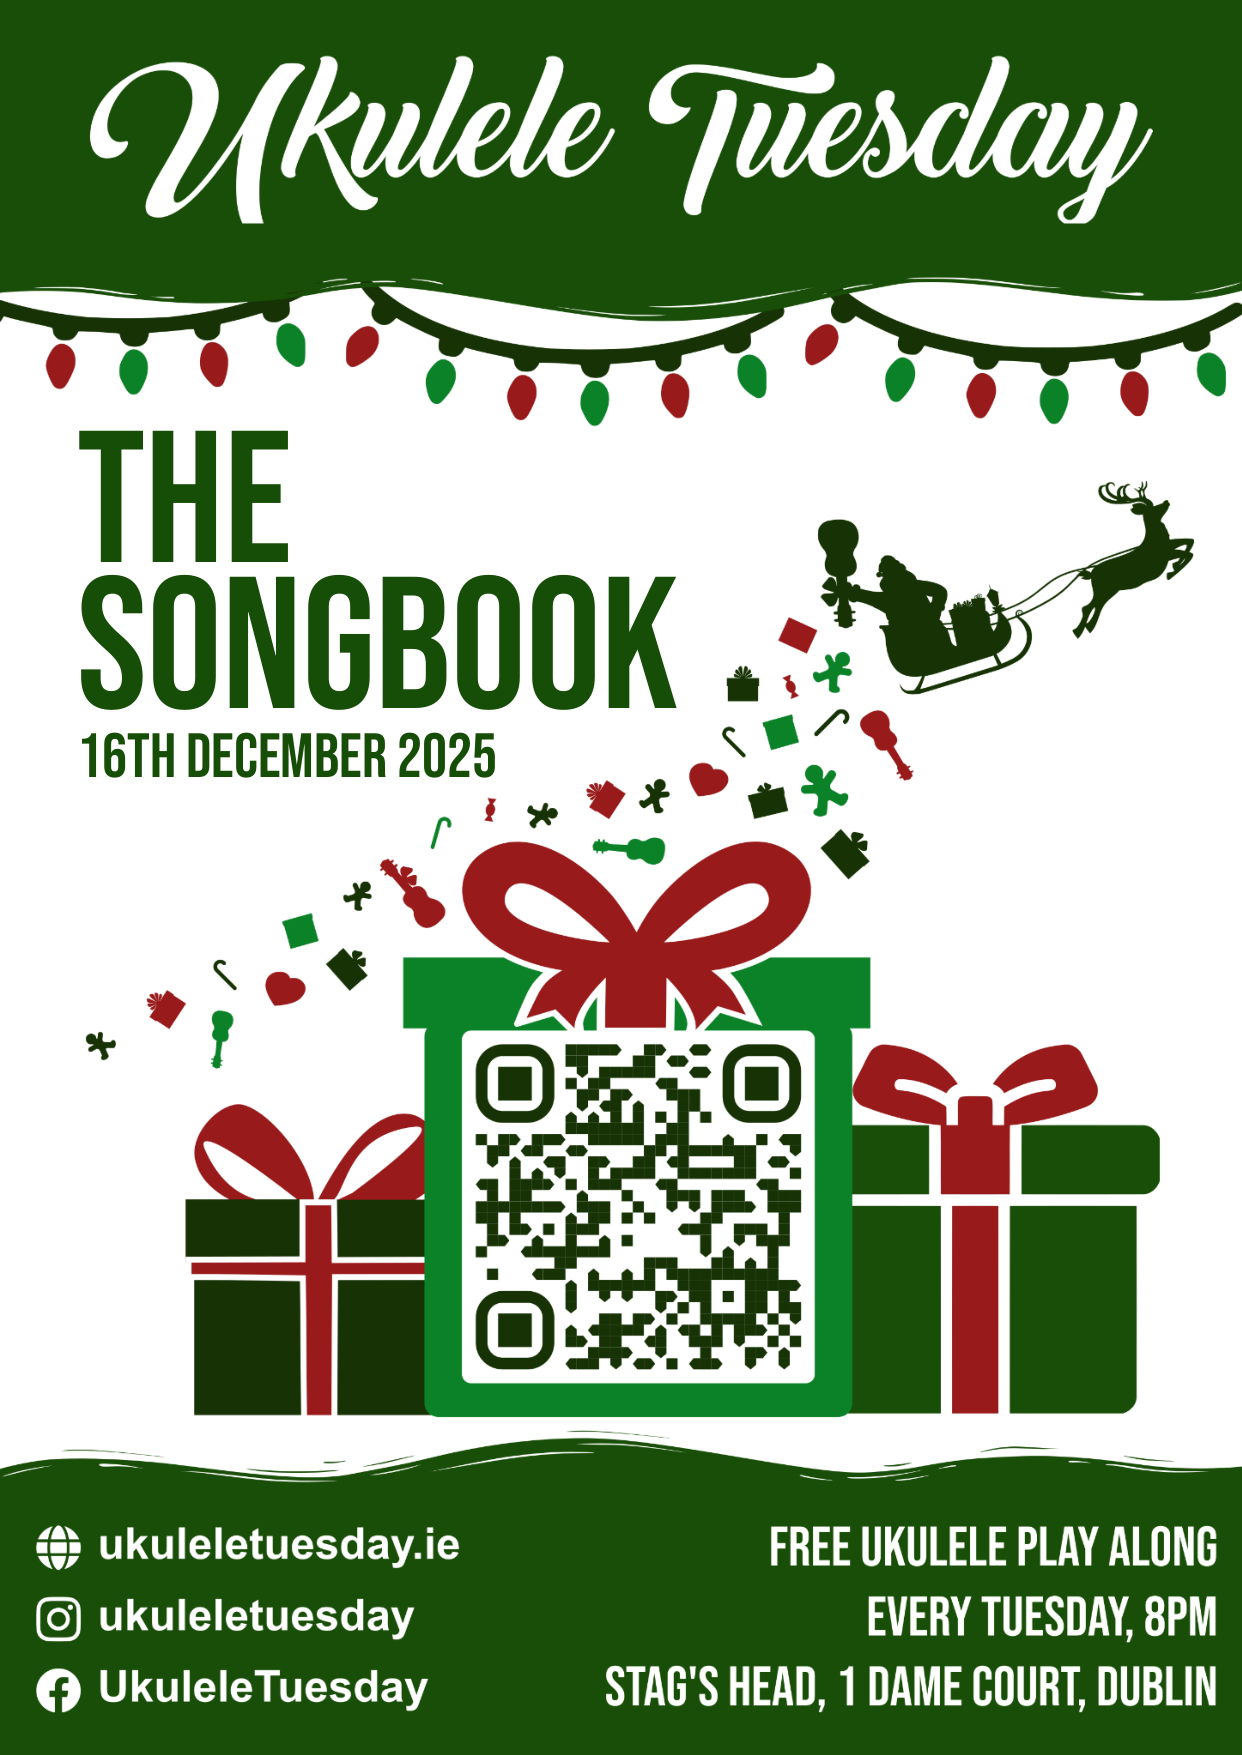
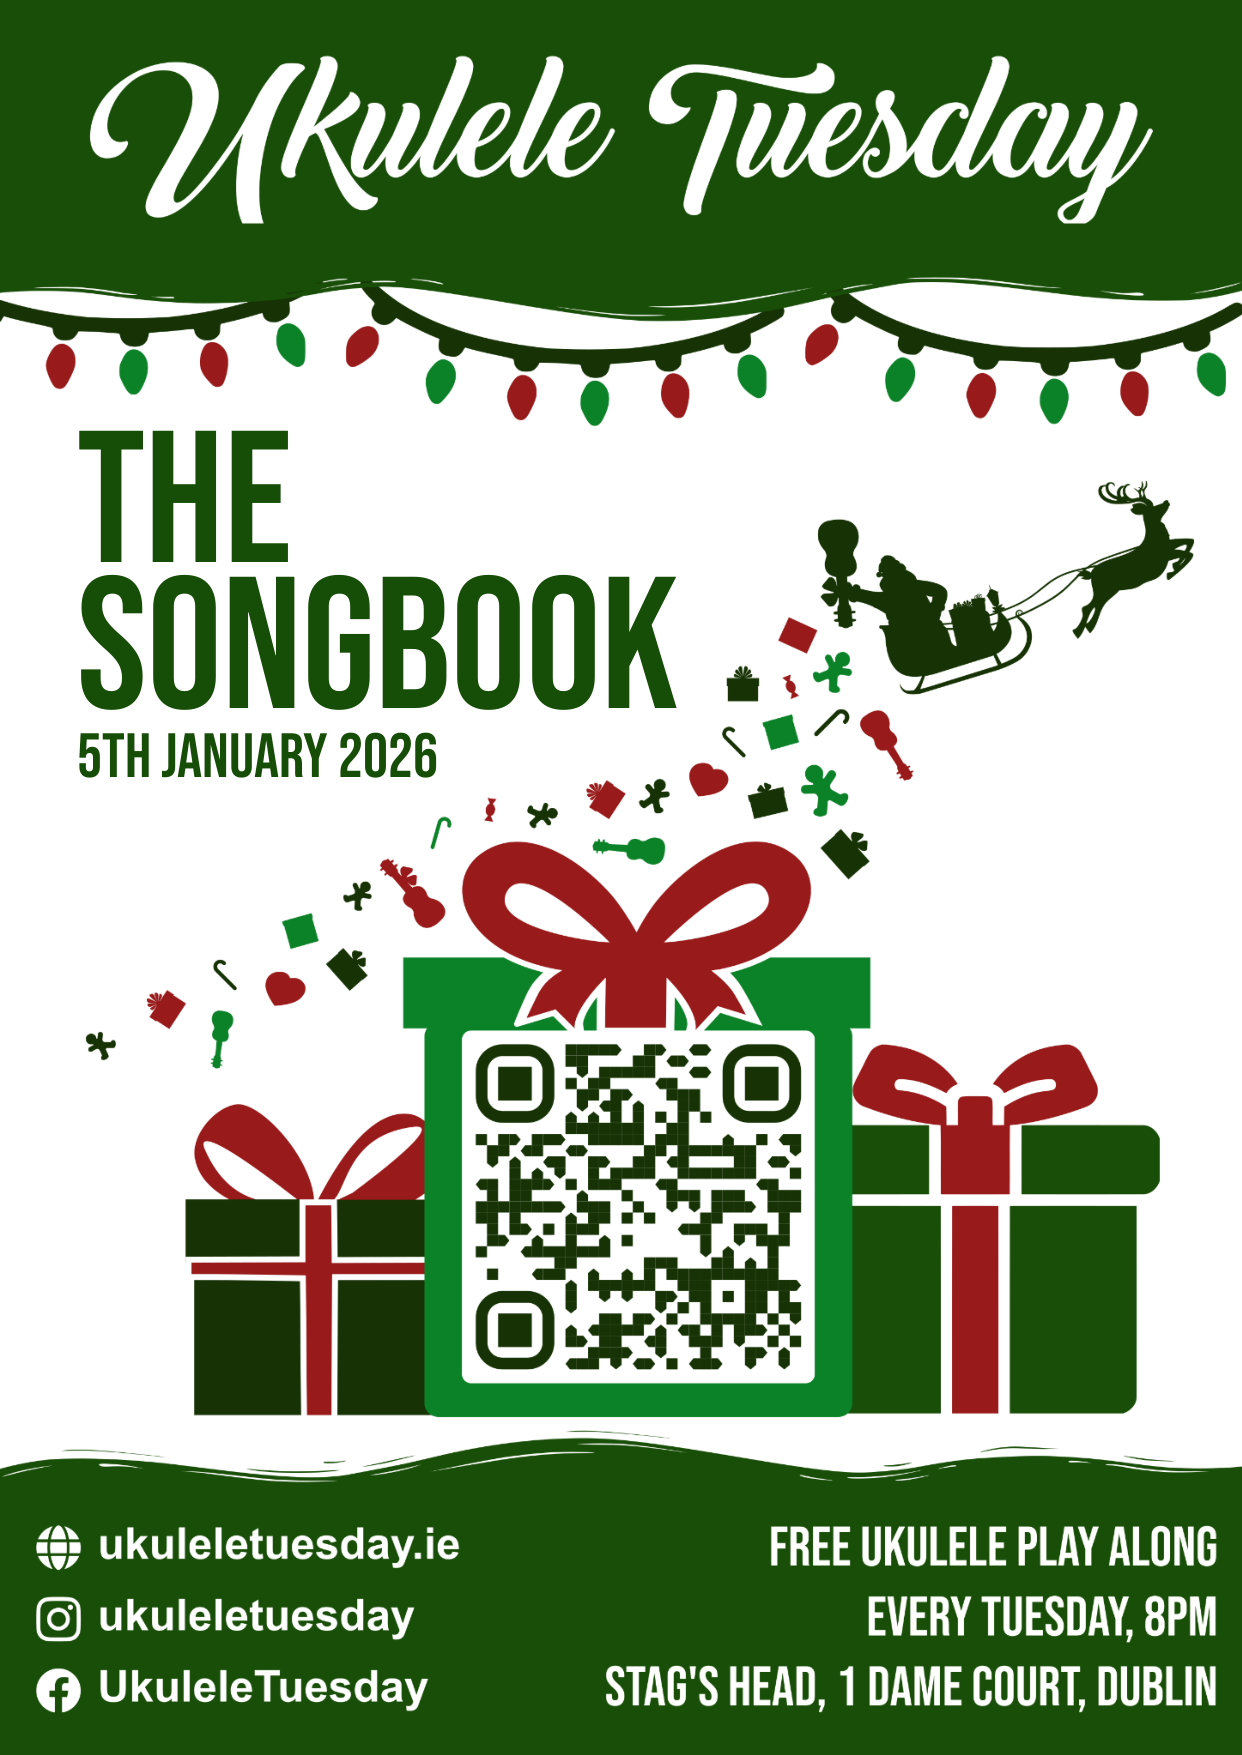
Deploying to gh-pages from @ UkuleleTuesday/songbooks@1e005746021f75850ae63b0fa25779fb7a8e616b 🚀

Changed region(s): [[0.0612, 0.4, 0.3977, 0.4615]]

diff --git a/index.html b/index.html
@@ -49,10 +49,10 @@
       
         <li class="songbook-item">
           
-          <a href="https://storage.googleapis.com/ukulele-tuesday-songbooks/ukulele-tuesday-songbook-current-2025-12-16.pdf" target="_blank" rel="noopener noreferrer"
+          <a href="https://storage.googleapis.com/ukulele-tuesday-songbooks/ukulele-tuesday-songbook-current-2026-01-05.pdf" target="_blank" rel="noopener noreferrer"
              class="songbook-link"
              data-songbook-title="Current Songbook"
-             data-songbook-url="https://storage.googleapis.com/ukulele-tuesday-songbooks/ukulele-tuesday-songbook-current-2025-12-16.pdf"
+             data-songbook-url="https://storage.googleapis.com/ukulele-tuesday-songbooks/ukulele-tuesday-songbook-current-2026-01-05.pdf"
              data-songbook-filename=""
              data-songbook-subject="The current edition of the Ukulele Tuesday songbook, containing the songs used during our Tuesday sessions.
 We rotate the songs we play on Tuesday sessions frequently, so make sure to download the latest version!
@@ -78,10 +78,10 @@ We rotate the songs we play on Tuesday sessions frequently, so make sure to down
       
         <li class="songbook-item">
           
-          <a href="https://storage.googleapis.com/ukulele-tuesday-songbooks/ukulele-tuesday-songbook-complete-2025-12-16.pdf" target="_blank" rel="noopener noreferrer"
+          <a href="https://storage.googleapis.com/ukulele-tuesday-songbooks/ukulele-tuesday-songbook-complete-2026-01-05.pdf" target="_blank" rel="noopener noreferrer"
              class="songbook-link"
              data-songbook-title="Complete Songbook"
-             data-songbook-url="https://storage.googleapis.com/ukulele-tuesday-songbooks/ukulele-tuesday-songbook-complete-2025-12-16.pdf"
+             data-songbook-url="https://storage.googleapis.com/ukulele-tuesday-songbooks/ukulele-tuesday-songbook-complete-2026-01-05.pdf"
              data-songbook-filename=""
              data-songbook-subject="The complete collection of all available Ukulele Tuesday songs sheets.
 ">
@@ -112,7 +112,7 @@ We rotate the songs we play on Tuesday sessions frequently, so make sure to down
         <svg xmlns="http://www.w3.org/2000/svg" width="24" height="24" viewBox="0 0 24 24" fill="none" stroke="currentColor" stroke-width="2" stroke-linecap="round" stroke-linejoin="round" class="heart-icon"><path d="M20.84 4.61a5.5 5.5 0 0 0-7.78 0L12 5.67l-1.06-1.06a5.5 5.5 0 0 0-7.78 7.78l1.06 1.06L12 21.23l7.78-7.78 1.06-1.06a5.5 5.5 0 0 0 0-7.78z"></path></svg>
         Buy Us a Coffee
       </a>
-      <p class="micro-proof">🎉 <strong>€1028 raised from 150 supporters so far. Thank you!</strong></p>
+      <p class="micro-proof">🎉 <strong>€1046 raised from 152 supporters so far. Thank you!</strong></p>
       
       <div class="monthly-supporters">
         <p class="monthly-supporters-heading"><strong>Special thanks to our monthly supporters:</strong></p>
@@ -152,7 +152,7 @@ We rotate the songs we play on Tuesday sessions frequently, so make sure to down
         </a>
       </div>
       
-      <div class="last-updated" id="last-updated-container" data-timestamp="2025-12-16T16:38:44.751482+00:00">
+      <div class="last-updated" id="last-updated-container" data-timestamp="2026-01-05T13:52:40.974324+00:00">
         Last updated: <span id="last-updated-text"></span>
       </div>
       <script>
